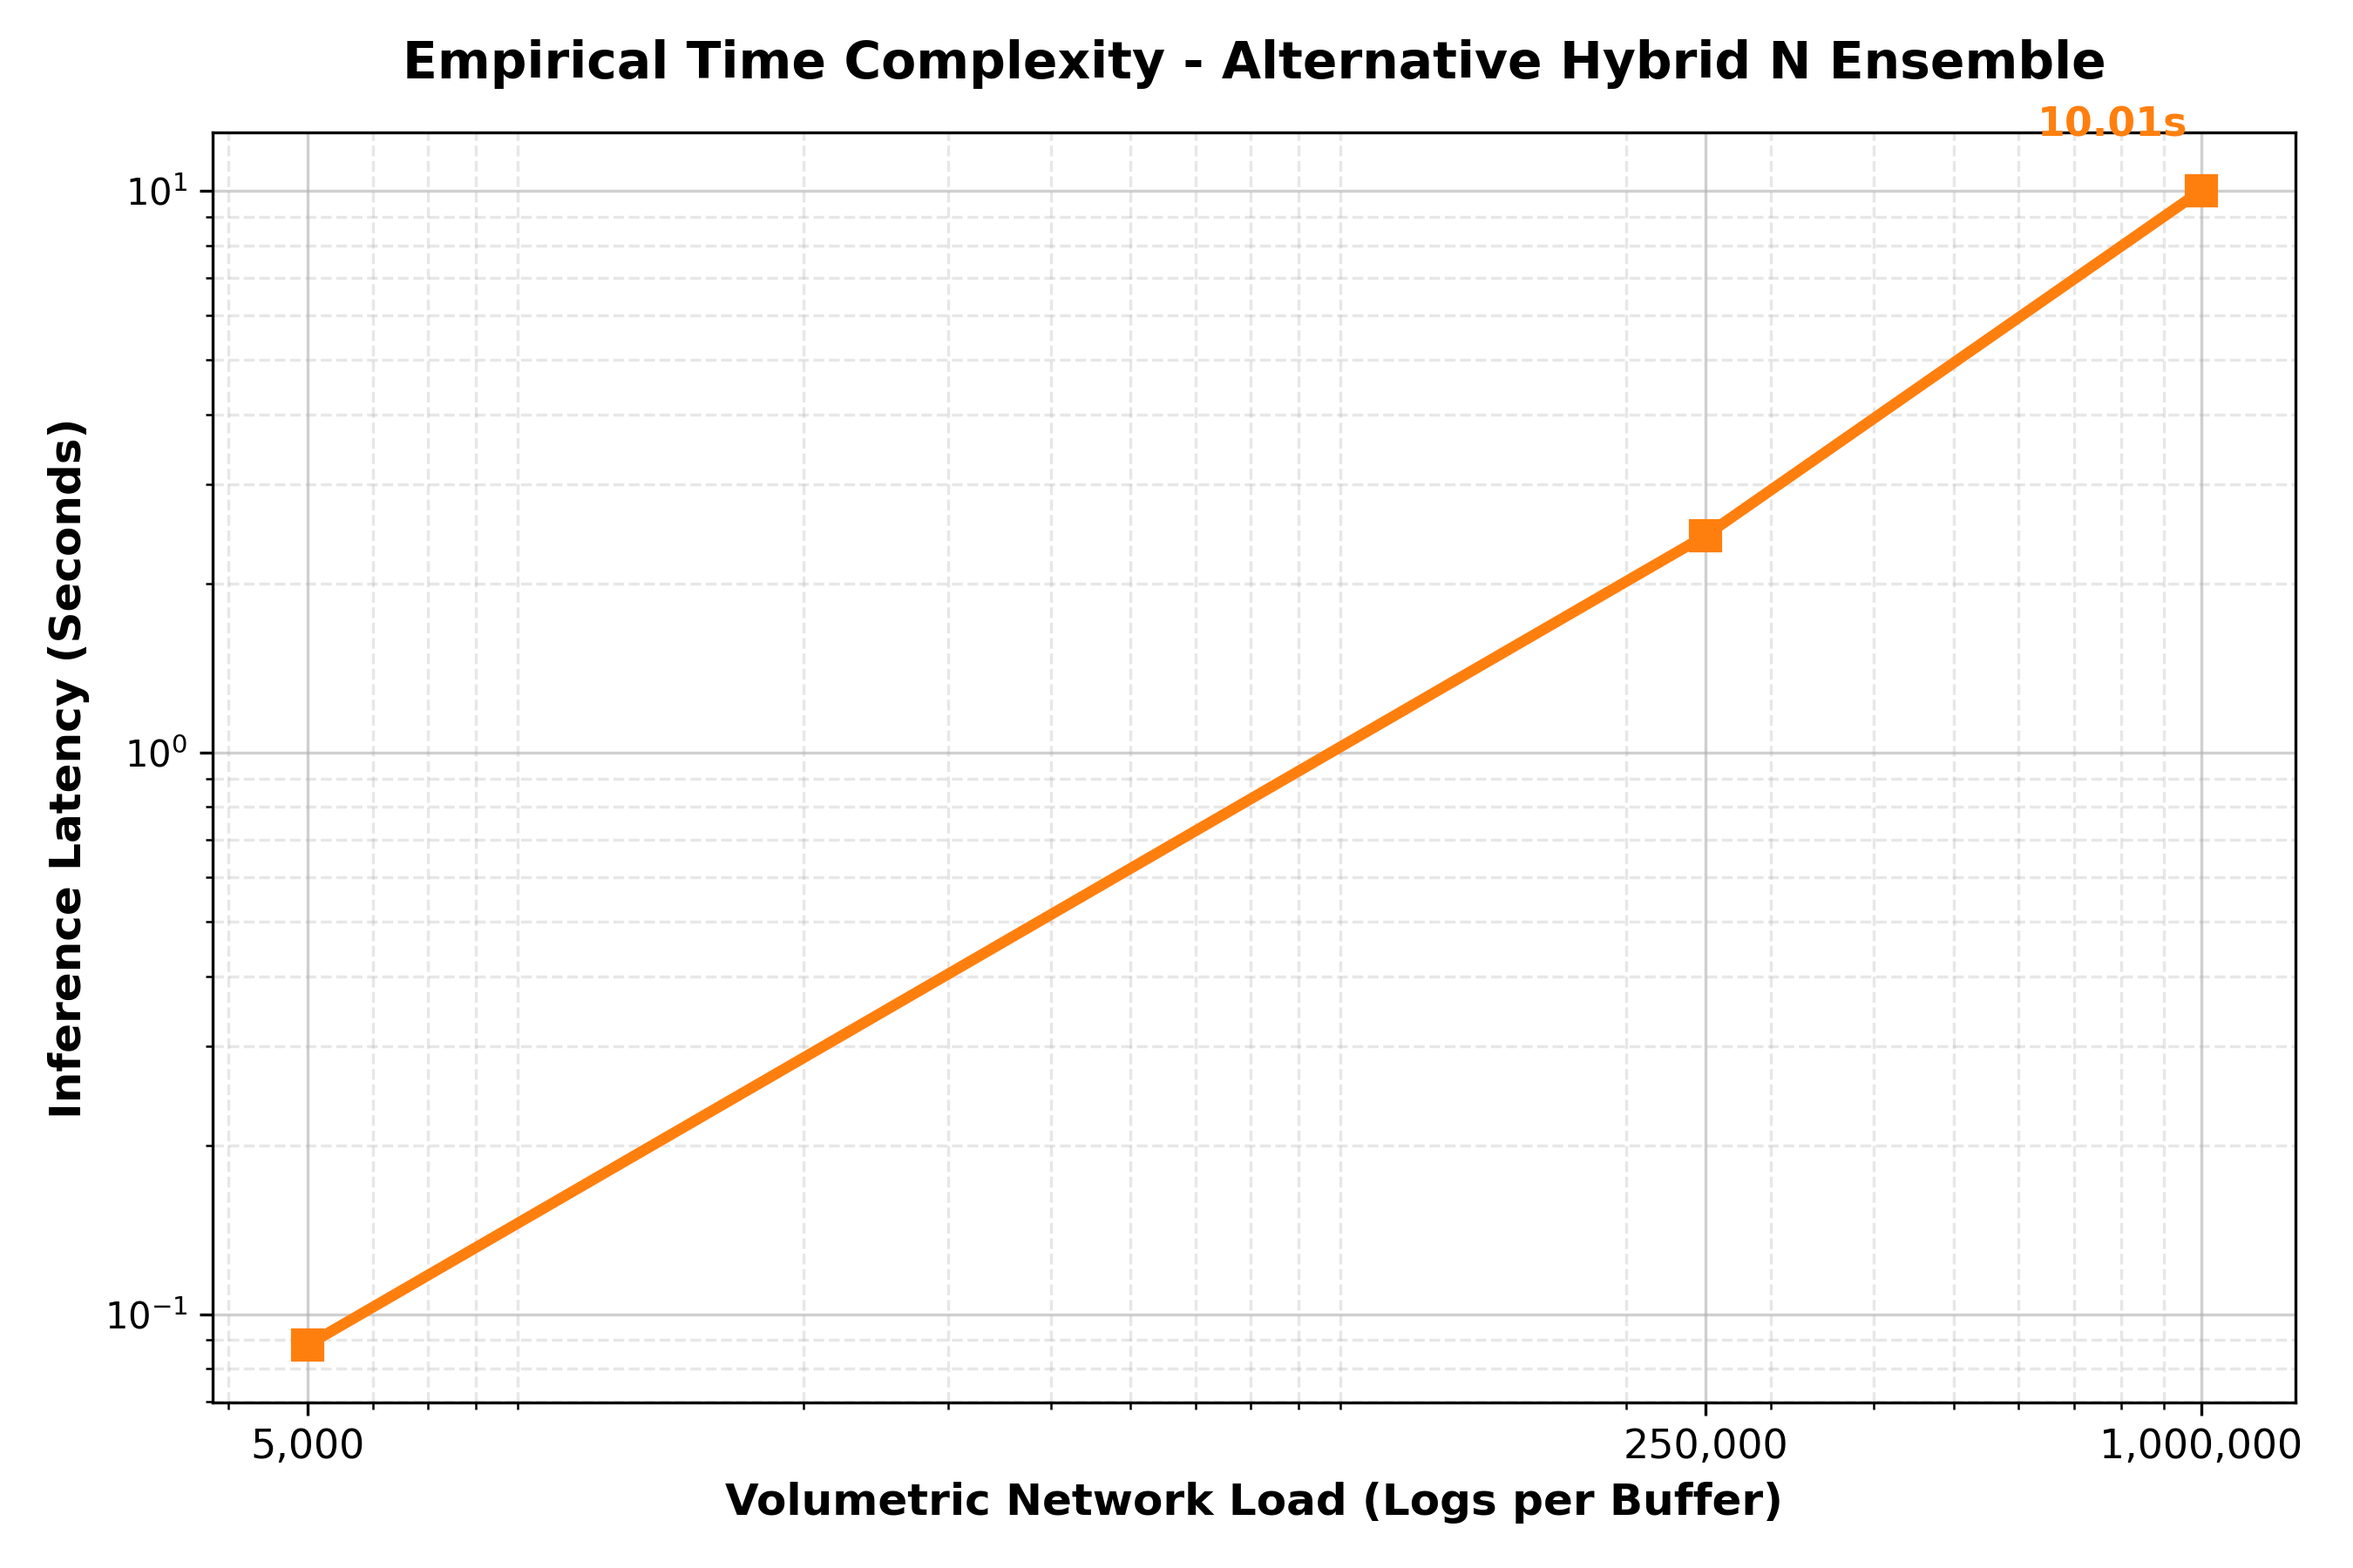
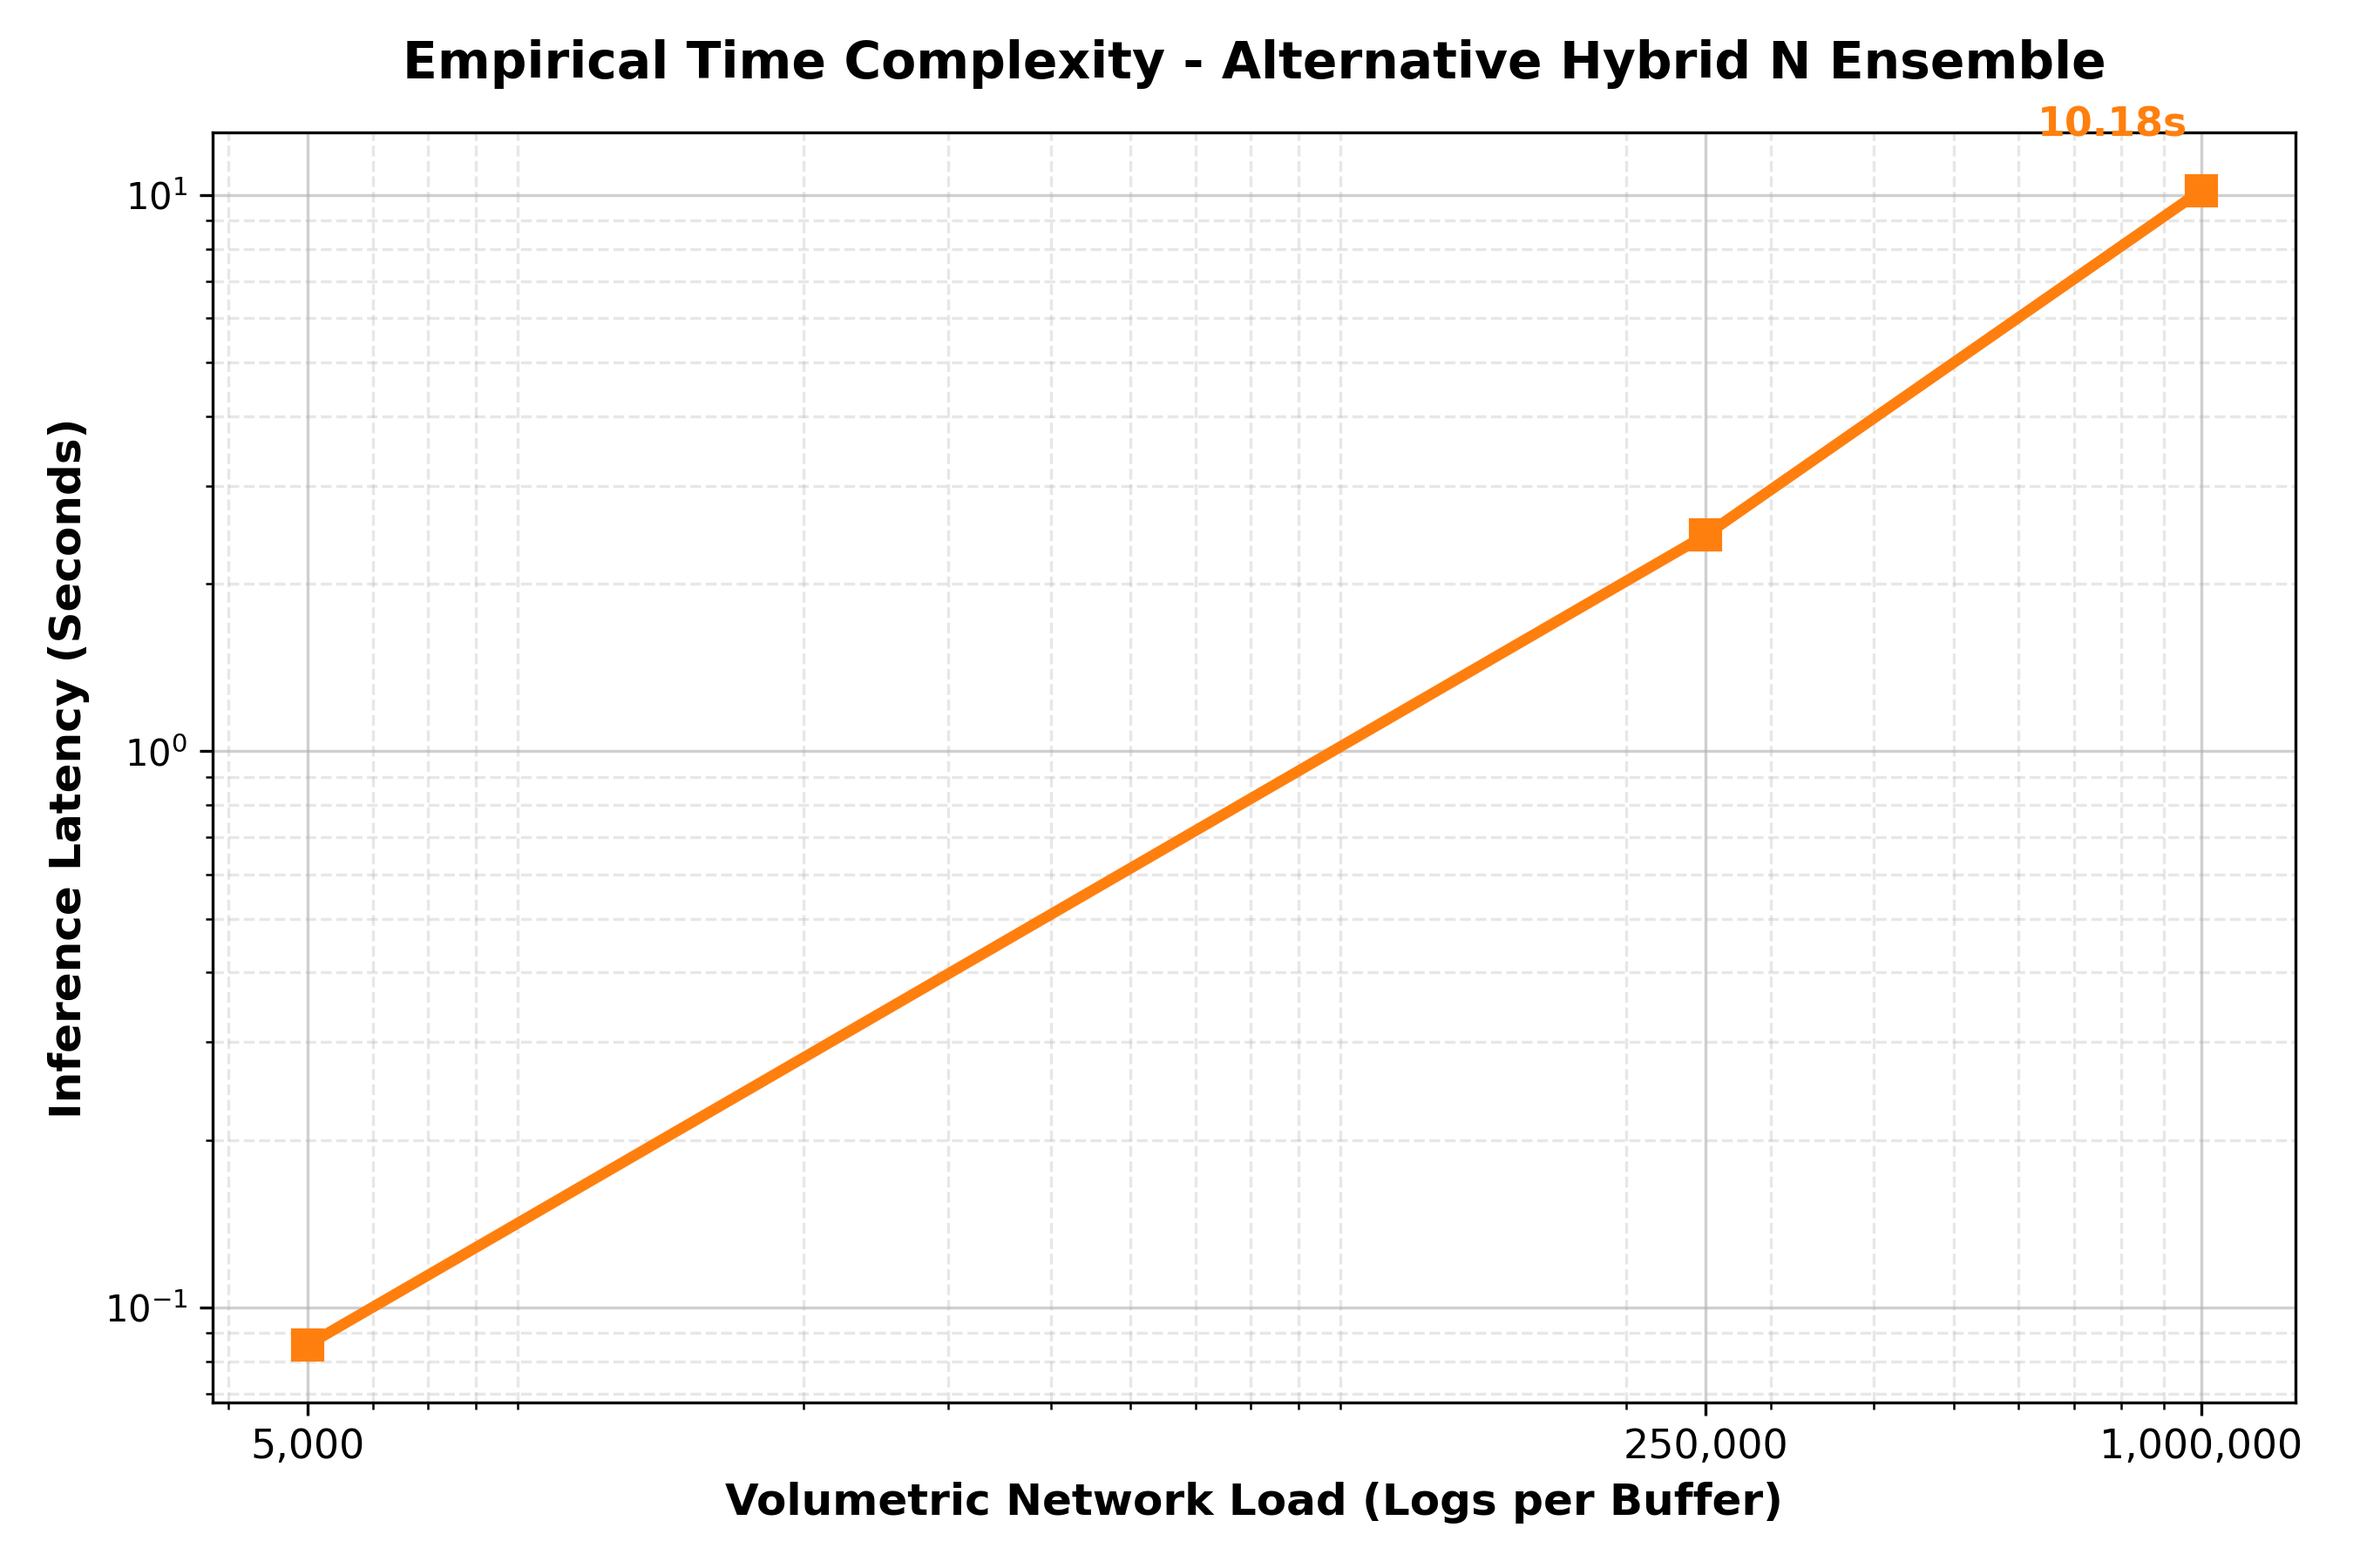
Updated the features in the scalabity assesment to align with the correct 10.

Changed region(s): [[0.1867, 0.8089, 0.9644, 0.84], [0.0622, 0.8089, 0.1244, 0.84], [0.9022, 0.0622, 0.9333, 0.0933]]

diff --git a/6_scalability_assessment_hn.py b/6_scalability_assessment_hn.py
@@ -45,21 +45,18 @@ except FileNotFoundError:
     print("     [!] ERROR: 'logs.csv' not found in the root directory.")
     sys.exit()
 
-# Add 10 Golden Features + 3 class 4 targets
+# Add 10 Golden Features
 golden_features = [
     'Total Length of Bwd Packets', 
-        'Bwd Packet Length Mean', 
-        'Total Length of Fwd Packets', 
-        'Flow Bytes/s', 
-        'Flow Duration', 
-        'Fwd Packet Length Mean', 
-        'Flow Packets/s', 
-        'host.name_ausf',
-        'host.name_amf',
-        'zeek.udp_conns_1,728,325,600',
-        'fields.vnf_connection',
-        'host.name_nrf',
-        'fields.vnf_weird'
+    'Bwd Packet Length Mean', 
+    'Total Length of Fwd Packets', 
+    'Flow Bytes/s', 
+    'Flow Duration', 
+    'Fwd Packet Length Mean', 
+    'Flow Packets/s', 
+    'host.name_nrf',
+    'host.name_udr',
+    'zeek.udp_conns_1,728,308,500'
 ]
 
 X_full_stream = df_full[golden_features]

diff --git a/4_tuning_script.py b/4_tuning_script.py
@@ -77,7 +77,6 @@ rf_estimator = RandomForestClassifier(n_estimators=50, max_depth=10, class_weigh
 cv = StratifiedKFold(n_splits=5, shuffle=True, random_state=42)
 
 # Execute RFECV. 'scoring=f1_macro' ensures the Random Forest heavily peanlises feature sets that ignore minority zero-day attacks during the pruning process.
-# Step by 2 to accelerate the loop, enforcing a minimum of 10 features
 rfecv = RFECV(
     estimator=rf_estimator,
     step=2, 
